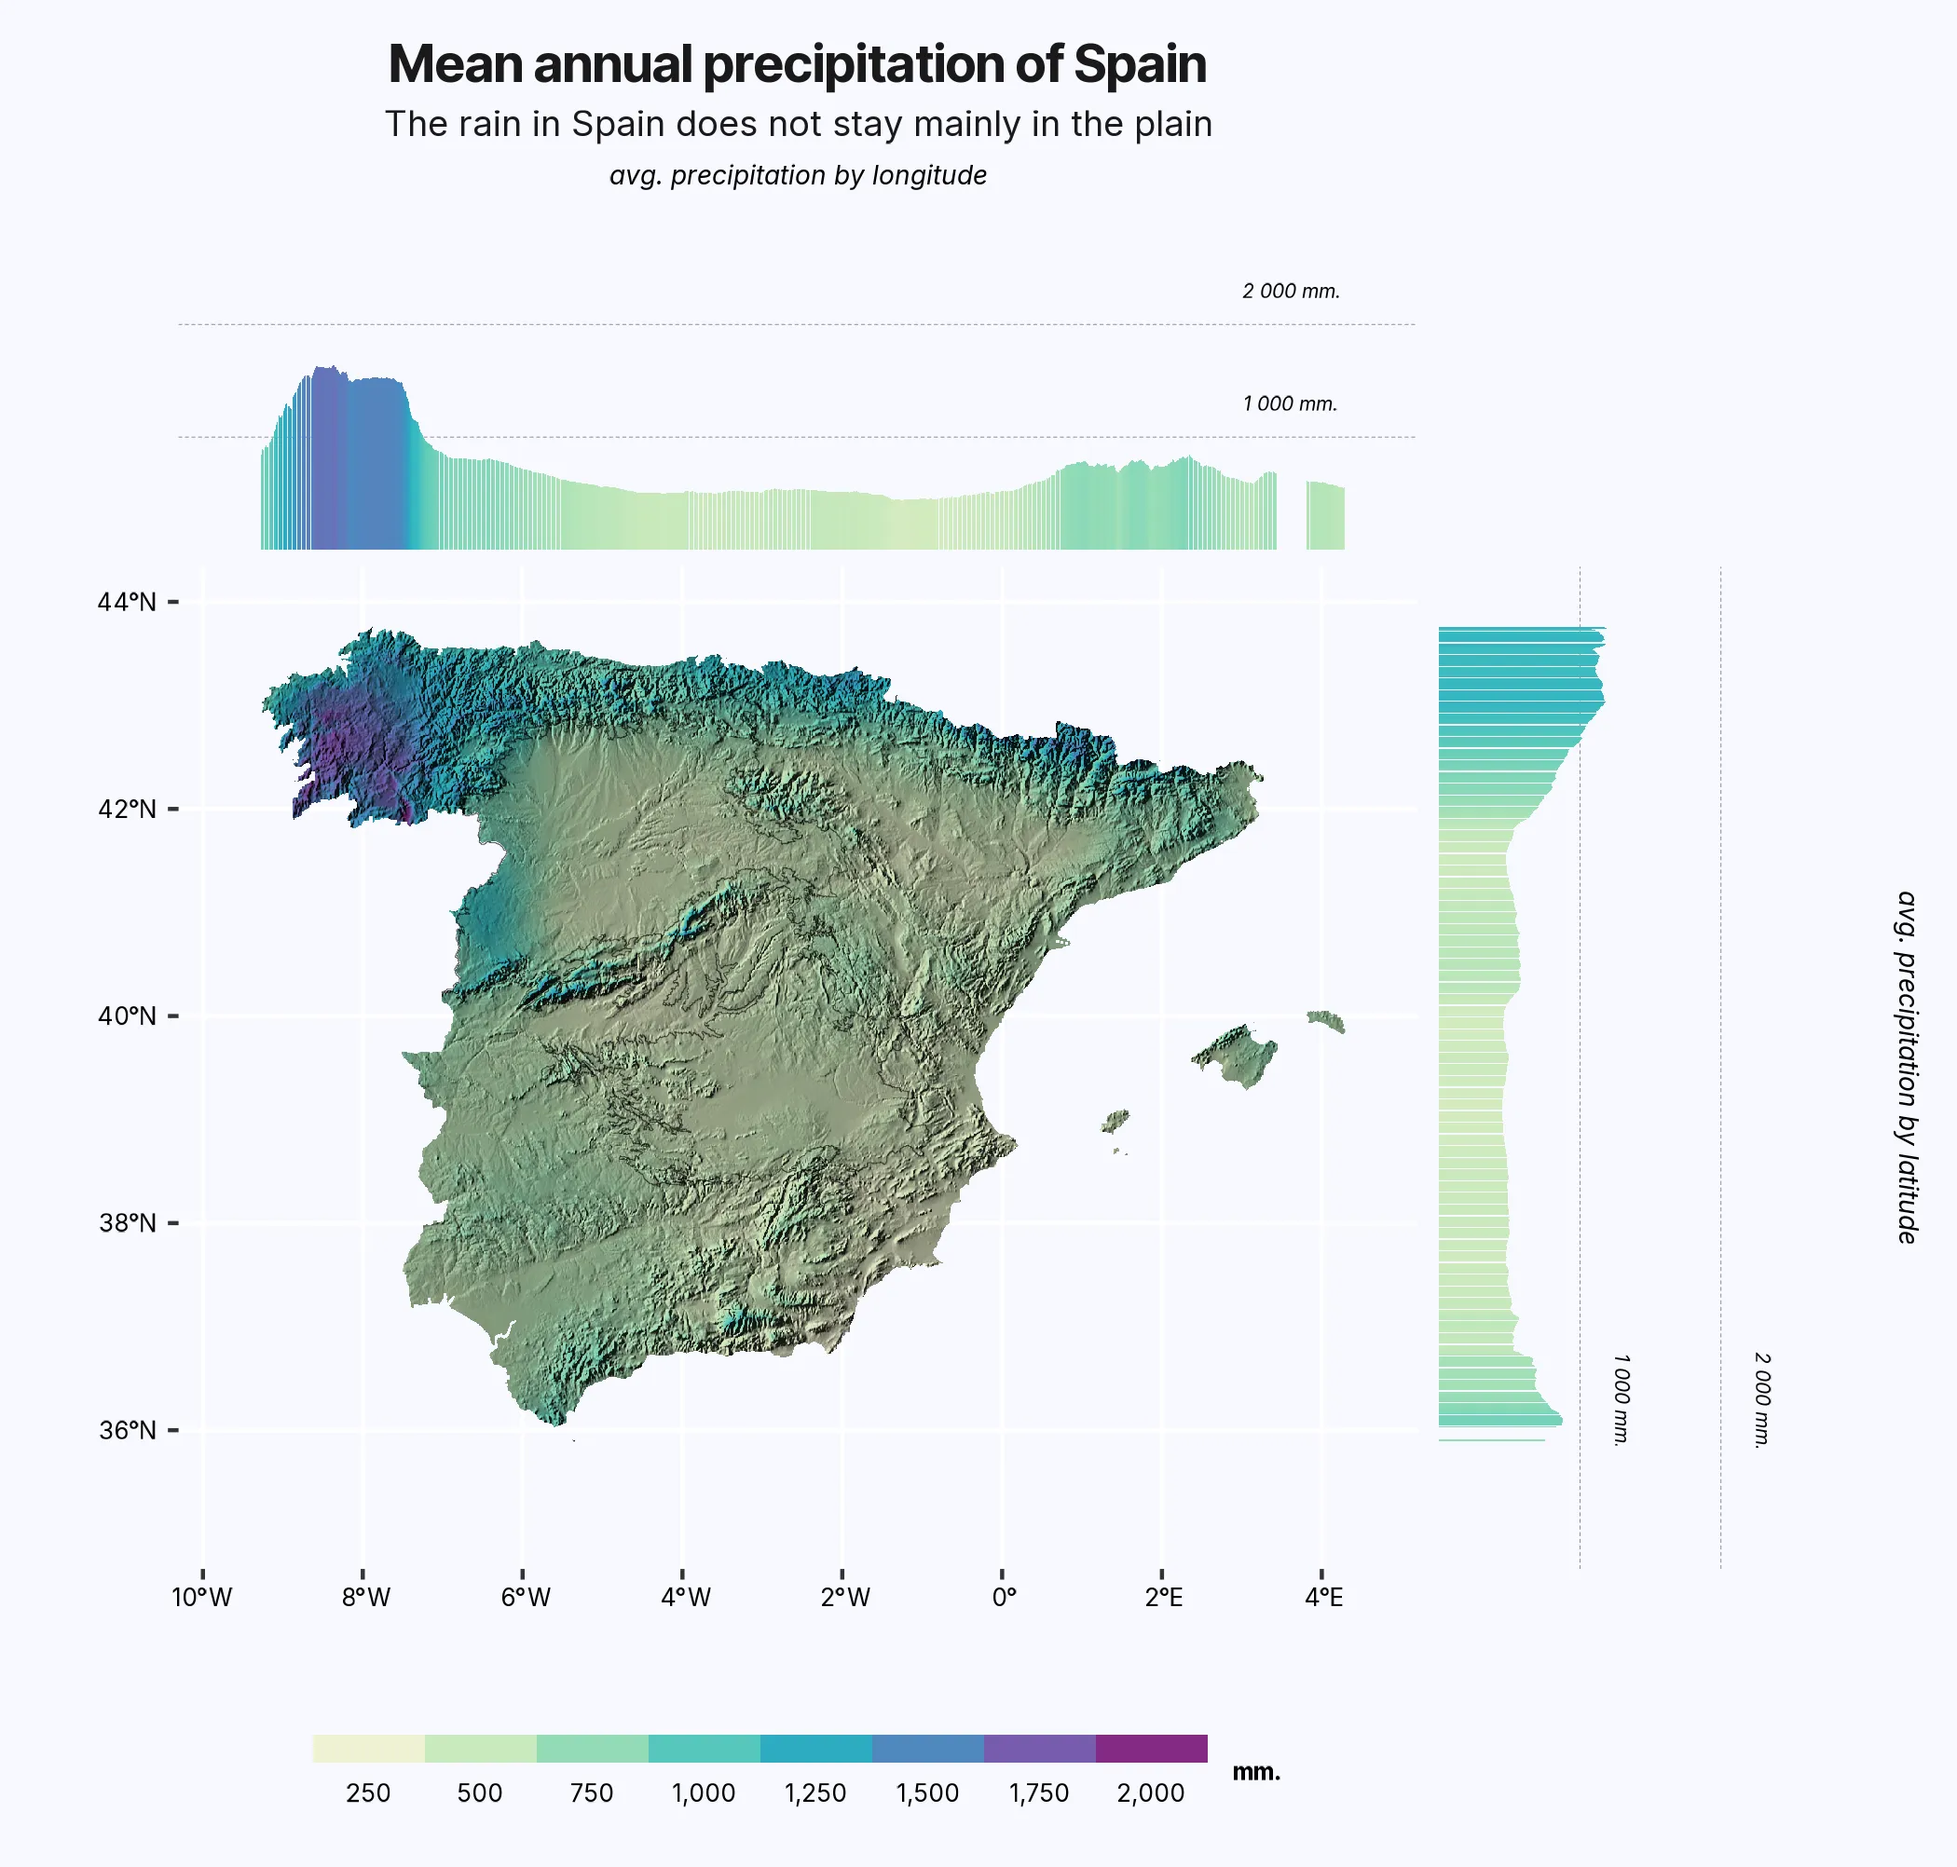
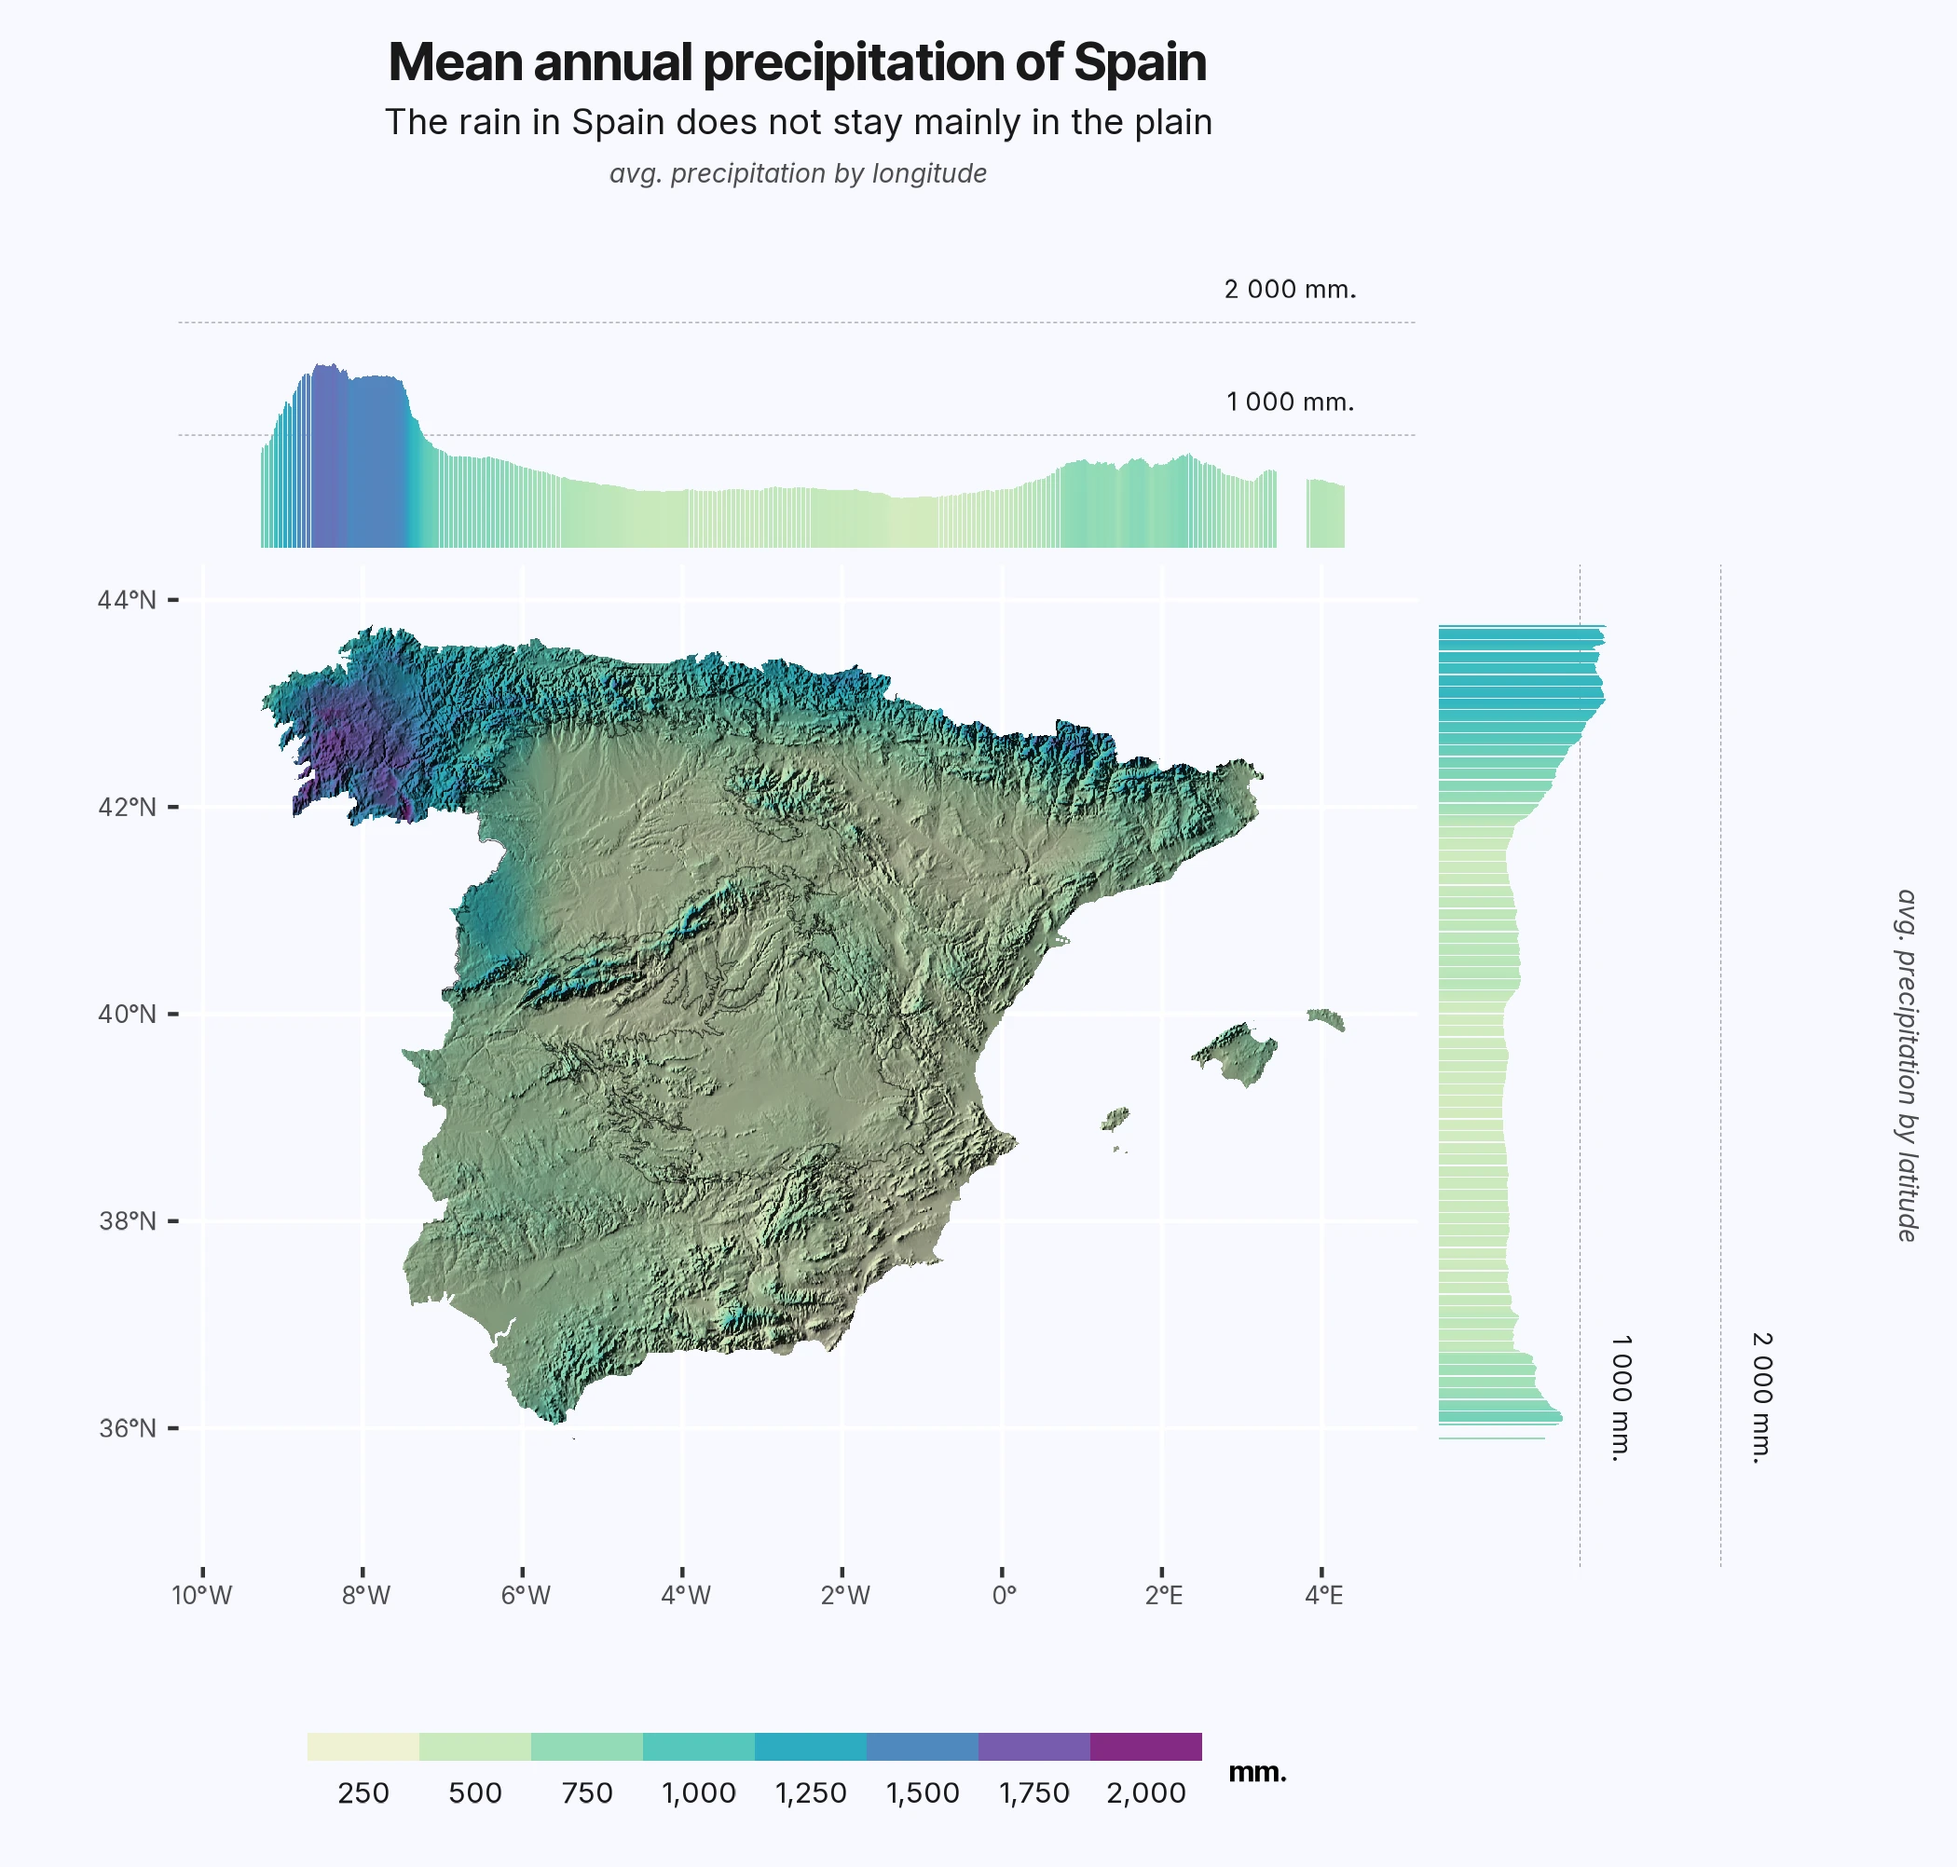
Refine typography in the hillshade precipitation plots

diff --git a/collections/_posts/2022-12-12-tidyterra-hillshade-2.md b/collections/_posts/2022-12-12-tidyterra-hillshade-2.md
@@ -705,8 +705,8 @@ plot_x <- axis_canvas(plot_main, axis = "x") +
     # Adjust the position of the labels
     nudge_y = 300,
     family = map_regular,
-    fontface = "italic",
-    size = base_text_size * 0.2
+    colour = ink,
+    size = base_text_size * 0.72 / .pt
   ) +
   precip_scale +
   scale_y_continuous(
@@ -740,8 +740,8 @@ plot_y <- axis_canvas(plot_main, axis = "y", coord_flip = TRUE) +
     nudge_y = 300,
     angle = 270,
     family = map_regular,
-    fontface = "italic",
-    size = base_text_size * 0.2
+    colour = ink,
+    size = base_text_size * 0.72 / .pt
   ) +
   precip_scale +
   scale_y_continuous(
@@ -767,7 +767,15 @@ And insert everything in the main plot. See the final result:
 # Combine all plots into one
 sizes_axis <- grid::unit(.3, "null")
 
-plot_final <- insert_xaxis_grob(plot_main, plot_x,
+plot_main_final <- plot_main +
+  theme(
+    axis.title = element_text(colour = "grey30"),
+    axis.text = element_text(colour = "grey30", face = "plain"),
+    legend.title = element_text(size = base_text_size * 0.82),
+    legend.text = element_text(size = base_text_size * 0.82, colour = ink)
+  )
+
+plot_final <- insert_xaxis_grob(plot_main_final, plot_x,
   position = "top",
   height = sizes_axis
 )
